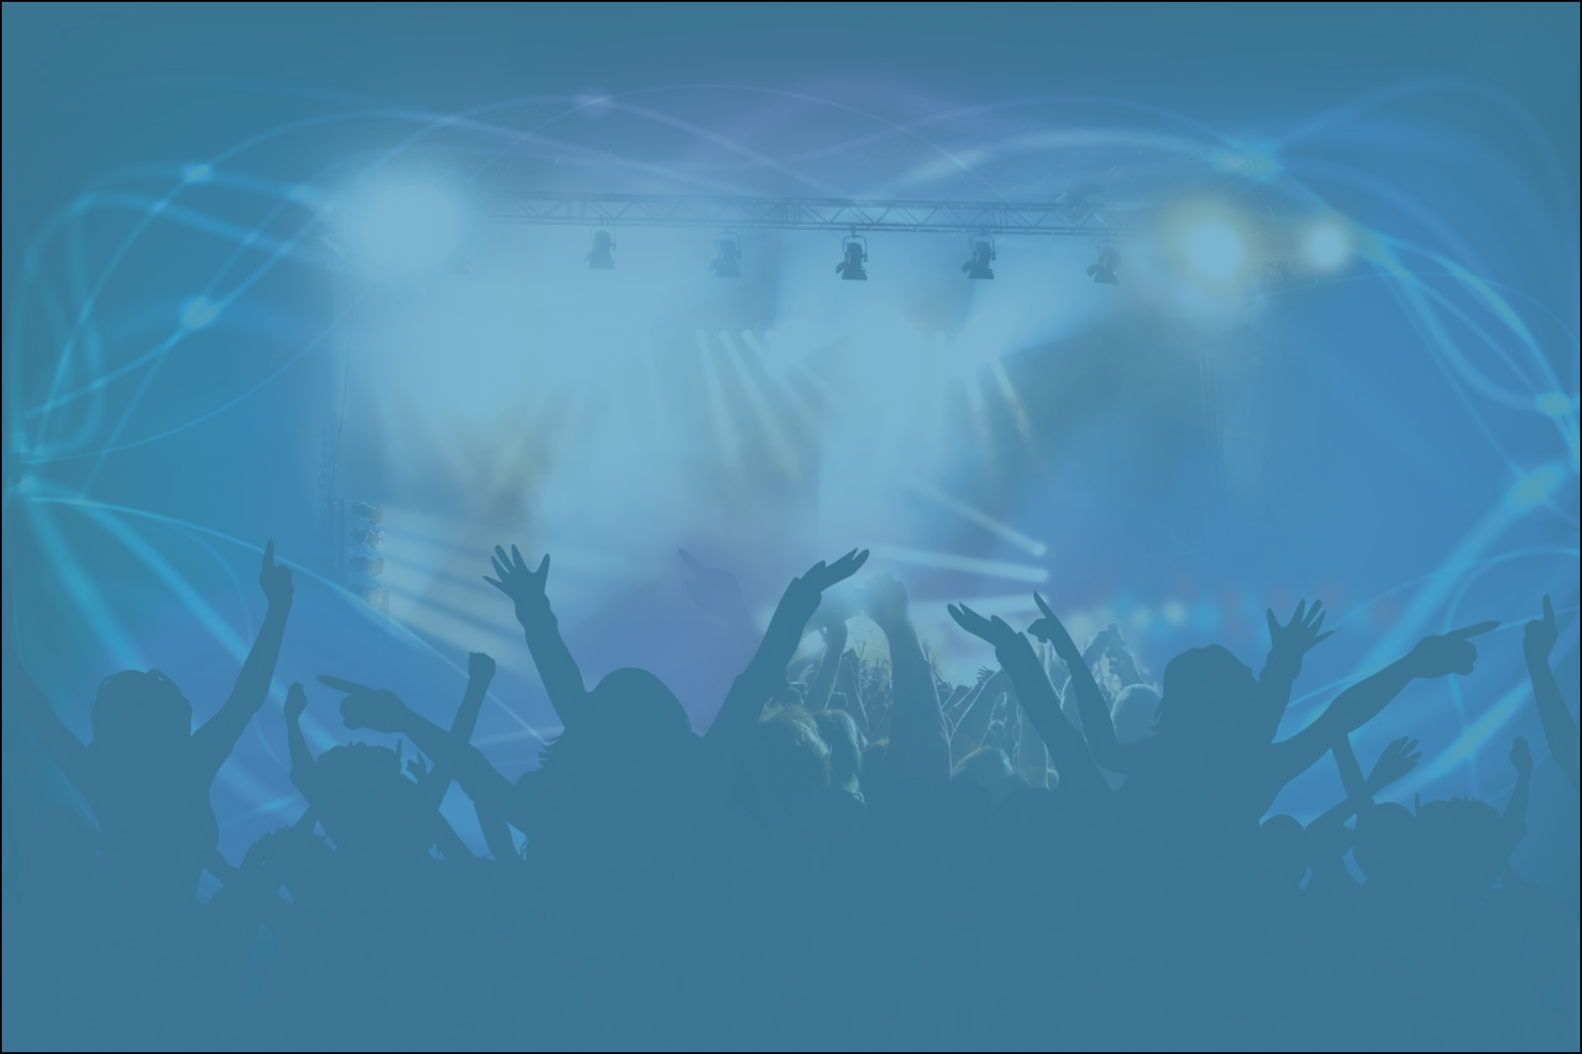
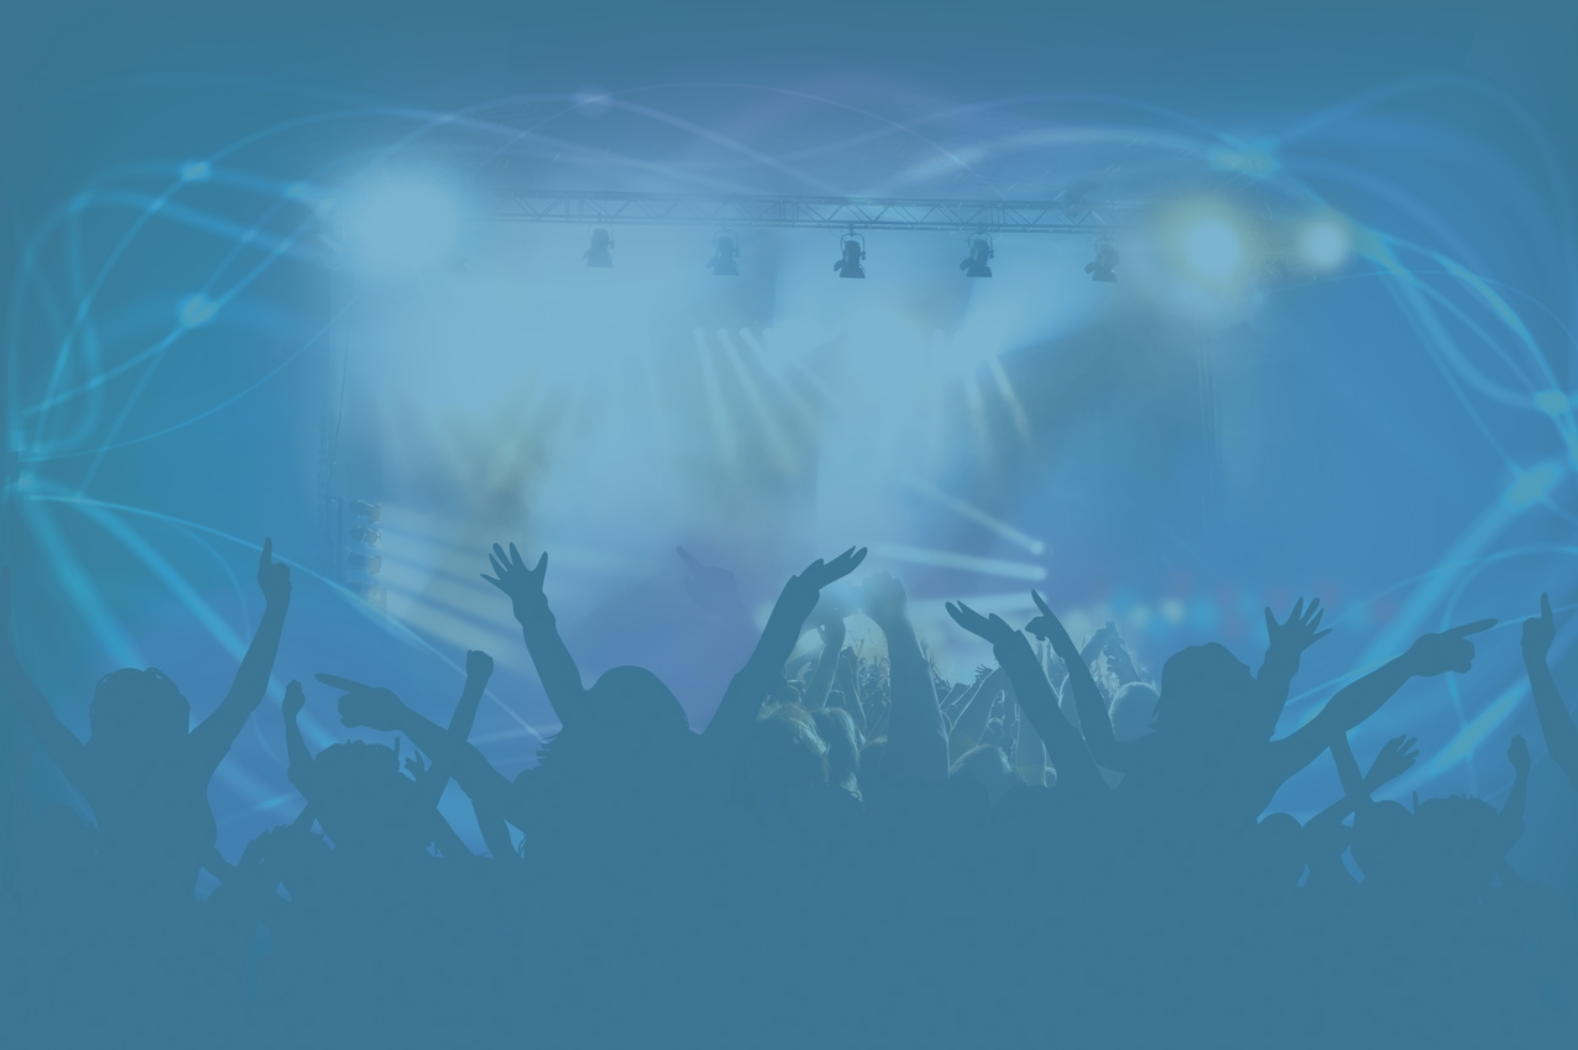
Changes on Download section.

Changed region(s): [[0.9937, 0.0, 1.0, 1.0], [0.0, 0.9752, 0.0311, 1.0], [0.0, 0.0, 0.0311, 0.0305]]

diff --git a/index.html b/index.html
@@ -390,15 +390,15 @@
     </div> -->
     <!-- Keywrod Research Area Ends -->
     <!-- Downlaod App Starts -->
-    <div style="background-image: url(img/background-download.png); background-size: cover;" class="hireus-area area-padding" id="download">
+    <div style="background-image: url(img/background-download.png); background-size: cover; background-position: center;" class="hireus-area area-padding" id="download">
         <div class="container">
             <div class="row">
                 <div class="col-xs-12 col-sm-6">
                     <div class="content-box">
                         <p><i style="color: #FFFFFF; margin-bottom: 20px;" class="fa fa-download fa-5x" aria-hidden="true"></i></p>
                         <h2 class="title">Baixe o Flirter agora!</h2>
-                        <p>Baixe agora o nosso novo app de encontros disponível para dispostivos Android, iPhone, iPad e iPod touch.</p>
-                        <p>Clique no botão da loja correspondente ao seu dispositivo.</p>
+                        <p>Baixe agora o nosso novo app de encontros disponível para dispostivos Android.</p>
+                        <p>Clique no botão do Google Play Store abaixo.</p>
                         <div class="gap-20"></div>
                         <a href="https://play.google.com/"><img style="height: 60px;" src="img/google-play-badge.png" alt="Disponível no Google Play"></a>
                     </div>
@@ -425,7 +425,7 @@
             </div>
             <div class="row">
                 <div class="col-xs-4">
-                    
+
                 </div>
                 <div class="col-xs-4">
                     <div id="team-carousel" class="owl-theme owl-carousel team-carousel">
@@ -441,7 +441,7 @@
                     </div>
                 </div>
                 <div class="col-xs-4">
-                   
+
                 </div>
             </div>
         </div>
@@ -596,7 +596,7 @@
                             <div class="img-icon">
                                 <img src="img/icon-call-us.png" alt="Icon">
                             </div>
-                            
+
                         </div>
                         <div class="img-icon-left-box">
                             <div class="img-icon">
